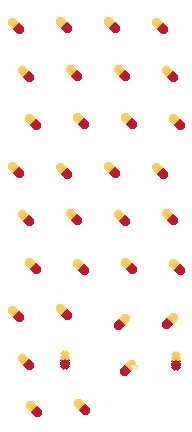
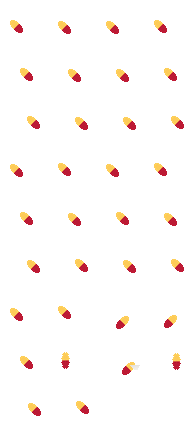
Held-item breathing anti-phase fix + blocks at ~55% size
The baked dy was copied with the body sheet's sign, but the 48px weapon
canvas composites at a different origin than the 32px body — on screen it
landed INVERTED (player up = item down). Flip the sign; blocks now render
at 7px (55% of the 13px icon size) via --block.

diff --git a/scripts/make_held_sheet.py b/scripts/make_held_sheet.py
@@ -83,9 +83,11 @@ def draw_streak(frame: Image.Image, streak: dict) -> None:
         frame.putpixel((x, y), (r, g, b, int(a)))
 
 
-def build_sheet(icon: Path, size: int = 16) -> tuple[Image.Image, list[list[Image.Image]]]:
+def build_sheet(icon: Path, size: int = 13, block: bool = False) -> tuple[Image.Image, list[list[Image.Image]]]:
     table = json.loads(TABLE_PATH.read_text())
-    art = load_icon(icon, size)
+    # Block faces read much chunkier than item icons at the same px (solid
+    # square vs sparse art): ~55% of the icon size per player feedback.
+    art = load_icon(icon, 7 if block else size)
 
     sheet = Image.new("RGBA", (FRAME * COLS, FRAME * len(ROW_NAMES)), (0, 0, 0, 0))
     frames: list[list[Image.Image]] = []
@@ -156,13 +158,14 @@ def main(argv: list[str] | None = None) -> int:
     ap.add_argument("--icon", required=True, type=Path)
     ap.add_argument("--stem", required=True, help="sheet stem, e.g. apple")
     ap.add_argument("--size", type=int, default=13, help="art block size (px)")
+    ap.add_argument("--block", action="store_true", help="block face: render ~55%% of --size")
     ap.add_argument("--out", type=Path, default=ROOT / "assets" / "players" / "weapon")
     ap.add_argument("--base", type=Path, default=ROOT / "assets" / "players" / "base.png")
     ap.add_argument("--contact", type=Path, default=None)
     ap.add_argument("--print-entry", action="store_true")
     args = ap.parse_args(argv)
 
-    sheet, _ = build_sheet(args.icon, args.size)
+    sheet, _ = build_sheet(args.icon, args.size, block=args.block)
     args.out.mkdir(parents=True, exist_ok=True)
     out_png = args.out / f"{args.stem}.png"
     sheet.save(out_png)
